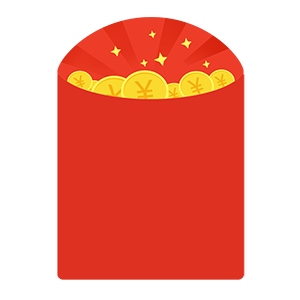
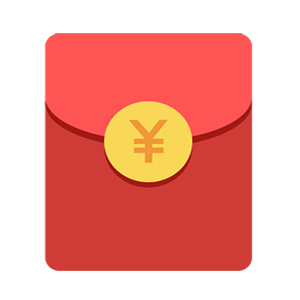
no message

diff --git a/static/css/index.css b/static/css/index.css
@@ -32,12 +32,15 @@ body,html{}
 .CloseBtn{top: 2rem;}
 .Bg0{background: url("../img/list/0.png")center center no-repeat!important;background-size: 100%!important;}
 .Bghb{background: url("../img/list/hb.png")center center no-repeat!important;background-size: 100%!important;}
+.Bghb{background: url("../img/u.jpg")center center no-repeat!important;background-size: 100%!important;}
+.Bghb{background: url("../img/animate/1.png")center center no-repeat!important;background-size: 100%!important;}
+.Bghb{background: none!important;background-size: 100%!important;}
 .Bgdk{background: url("../img/list/dk.png")center center no-repeat!important;background-size: 100%!important;}
 
 .Bg1{background: url("../img/list/1.png")center center no-repeat!important;background-size: 100%!important;}
 .Bg2{background: url("../img/list/2.png")center center no-repeat!important;background-size: 100%!important;}
 .Lottery{position: absolute;top: 0;bottom: 0;left: 0;right: 0; margin:  auto; perspective: 500px;box-sizing: border-box;; width: 9rem;height: 9rem;;border-radius:0.1rem;overflow: hidden; }
-.Lottery li{perspective: 500px; position: relative;background: white; text-align: center; box-sizing: border-box;width: 2.04rem;height: 2.04rem;margin: 0.1rem; padding: 0.2rem; float: left; }
+.Lottery li{perspective: 500px; position: relative;background: #FFD09C; text-align: center; box-sizing: border-box;width: 1.6rem;height: 1.6rem;margin: 0.1rem; float: left; }
 .Lottery li img{width: 80%;position: absolute;top: 0;left: 0;right: 0;bottom: 0;margin: auto;}
 .Lottery li:hover .SmBox{transform: scale(0.9);}
 
@@ -96,4 +99,4 @@ body,html{}
 .SmBoxBg4{background: url("../img/animate/4.png")center center no-repeat!important;background-size: 100%!important;}
 .SmBoxBg5{background: url("../img/animate/5.png")center center no-repeat!important;background-size: 100%!important;}
 .SmBoxBg6{background: url("../img/animate/6.png")center center no-repeat!important;background-size: 100%!important;}
-.SmBoxBg7{background: url("../img/animate/7.png")center center no-repeat!important;background-size: 100%!important;}
+.SmBoxBg7{background: url("../img/animate/1.png")center center no-repeat!important;background-size: 100%!important;}

diff --git a/index.html b/index.html
@@ -11,26 +11,26 @@
     <script src="static/font/iconfont.js"></script>
 </head>
 <body>
-<!--<div class="UserInfo">-->
-    <!--<div class="UserBox">-->
-        <!--<div class="ImgBg">-->
-            <!--<div class="PhotoBox">-->
-                <!--<img src="static/img/u.jpg" alt="" class="Photo" id="Photo">-->
-            <!--</div>-->
-        <!--</div>-->
-        <!--<div class="UserInfo">-->
-            <!--<div class="MainName"><span class="FC75">Echonessy</span> 共发出</div>-->
-            <!--<div class="AmtBox">-->
-                <!--<div class="AmtTit">金额(元)</div>-->
-                <!--<div class="Amt">6.00</div>-->
-            <!--</div>-->
-            <!--<div class="AmtBox">-->
-                <!--<div class="AmtTit">数量(个)</div>-->
-                <!--<div class="Amt">2</div>-->
-            <!--</div>-->
-        <!--</div>-->
-    <!--</div>-->
-<!--</div>-->
+<div class="UserInfo">
+    <div class="UserBox">
+        <div class="ImgBg">
+            <div class="PhotoBox">
+                <img src="static/img/u.jpg" alt="" class="Photo" id="Photo">
+            </div>
+        </div>
+        <div class="UserInfo">
+            <div class="MainName"><span class="FC75">Echonessy</span> 共发出</div>
+            <div class="AmtBox">
+                <div class="AmtTit">金额(元)</div>
+                <div class="Amt">6.00</div>
+            </div>
+            <div class="AmtBox">
+                <div class="AmtTit">数量(个)</div>
+                <div class="Amt">2</div>
+            </div>
+        </div>
+    </div>
+</div>
 
 <div class="MainFade" id="MainFade">
     <div class="Header">
